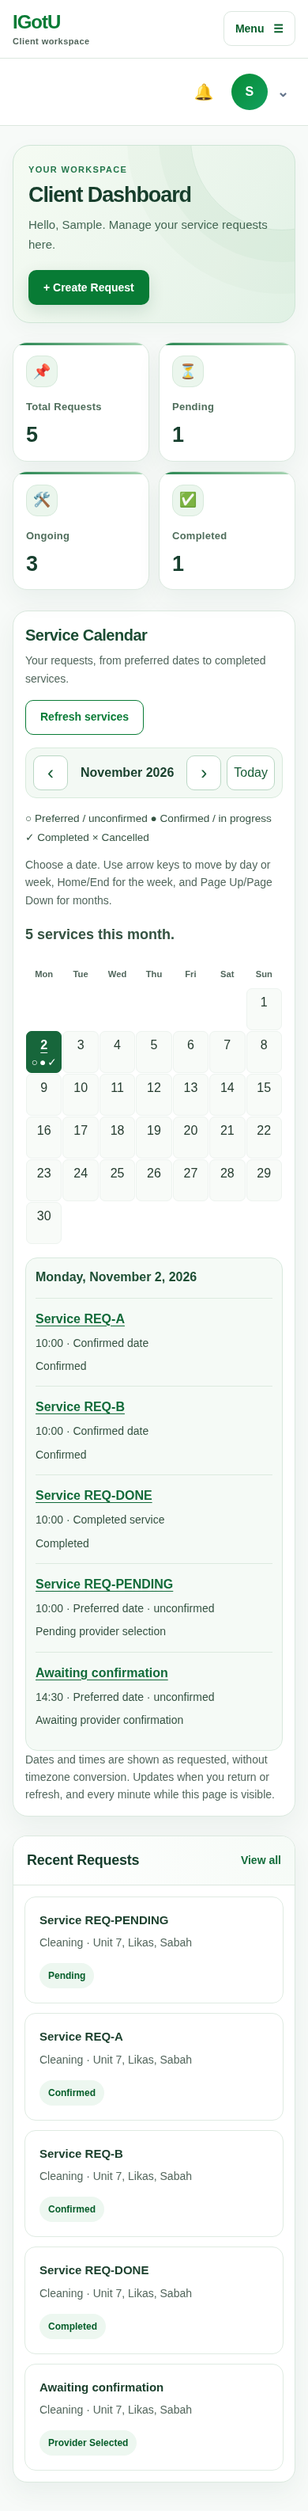
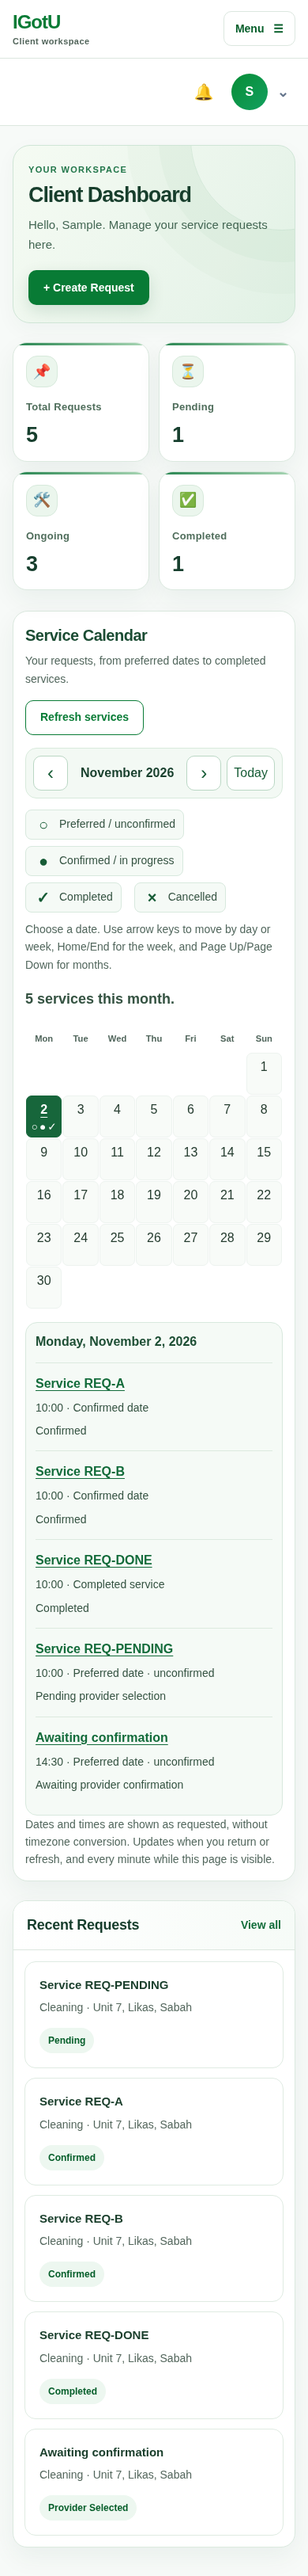
Clarify Provider area labels and calendar status legend

diff --git a/igotu_v2/js/service-calendar.js b/igotu_v2/js/service-calendar.js
@@ -84,7 +84,16 @@ export function mountServiceCalendar(root, { role, userId, loadRequests }) {
   previous.setAttribute("aria-label", "Previous month");
   next.setAttribute("aria-label", "Next month");
   toolbar.append(previous, monthLabel, next, todayButton);
-  const legend = element("p", "calendar-legend", "○ Preferred / unconfirmed   ● Confirmed / in progress   ✓ Completed   × Cancelled");
+  const legend = element("ul", "calendar-legend");
+  legend.setAttribute("role", "list");
+  legend.setAttribute("aria-label", "Service status legend");
+  for (const [symbol, label] of [["○", "Preferred / unconfirmed"], ["●", "Confirmed / in progress"], ["✓", "Completed"], ["×", "Cancelled"]]) {
+    const item = element("li", "calendar-legend-item");
+    const marker = element("span", "calendar-legend-marker", symbol);
+    marker.setAttribute("aria-hidden", "true");
+    item.append(marker, element("span", "", label));
+    legend.append(item);
+  }
   const instructions = element("p", "calendar-help", "Choose a date. Use arrow keys to move by day or week, Home/End for the week, and Page Up/Page Down for months.");
   instructions.id = "serviceCalendarHelp";
   const status = element("p", "calendar-status");

diff --git a/igotu_v2/css/service-calendar.css b/igotu_v2/css/service-calendar.css
@@ -10,7 +10,9 @@
 .calendar-today { padding: 8px 16px; }
 .service-calendar button:focus-visible, .calendar-service-title:focus-visible { outline: 3px solid #155b37; outline-offset: 3px; }
 .service-calendar button:disabled { cursor: wait; opacity: .6; }
-.calendar-legend { color: #355342; font-size: .85rem; line-height: 1.8; }
+.calendar-legend { display: flex; flex-wrap: wrap; gap: 8px 16px; padding: 0; list-style: none; color: #355342; font-size: .875rem; line-height: 1.5; }
+.calendar-legend-item { display: flex; align-items: center; gap: 8px; min-width: 0; padding: 6px 10px; border: 1px solid #d8e9de; border-radius: 8px; background: #f5faf6; }
+.calendar-legend-marker { display: inline-flex; align-items: center; justify-content: center; flex: 0 0 24px; width: 24px; height: 24px; font-size: 1.25rem; font-weight: 700; color: #175c36; }
 .calendar-status { min-height: 1.5em; color: #355342; line-height: 1.6; }
 .calendar-content { display: grid; grid-template-columns: minmax(0, 1.2fr) minmax(0, 1fr); gap: 24px; align-items: start; }
 .calendar-content[hidden] { display: none; }

diff --git a/igotu_v2/js/provider.js b/igotu_v2/js/provider.js
@@ -87,7 +87,7 @@ async function loadStats(userId) {
         <a class="list-item" href="incoming-requests.html?request_id=${escapeHtml(encodeURIComponent(request.request_id))}">
             <div>
                 <strong>${escapeHtml(request.title)}</strong>
-                <span>${escapeHtml(request.category)} · Approximate Area: ${escapeHtml(request.approximate_area || "Area available after confirmation")}</span>
+                <span>${escapeHtml(request.category)} · Approximate Area: ${escapeHtml(String(request.approximate_area || "").replace(/^(?:\s*approximate\s+area\s*:\s*)+/i, "").trim() || "Area available after confirmation")}</span>
             </div>
             <em class="status-pill">${escapeHtml(request.status.replace("_", " "))}</em>
         </a>

diff --git a/docs/service-calendar/README.md b/docs/service-calendar/README.md
@@ -23,7 +23,7 @@ npm --prefix tests run test:calendar
 
 The standalone test starts a loopback-only server, replaces supabaseClient.js with the existing stateful fixture transport and aborts external requests. No live project keys, production data or real accounts are needed. Chromium defaults to /usr/bin/chromium; CHROMIUM_PATH may select an installed local executable.
 
-28 browser scenarios plus date/ownership model checks cover scoped Client/Provider loading, status/decline transitions, read-only links, stale-detail removal/error recovery, empty/loading states, duplicate refresh suppression, automatic refresh, keyboard/month/year/Today navigation, backend-compatibility and mandatory identity denial, escaped/encoded untrusted fields, and layout/axe accessibility at 320/390/1440 pixels across Honolulu, Kuala Lumpur and Kiritimati. Results and screenshots are written to ignored work/service-calendar. The main audit runner also includes this suite.
+29 browser scenarios plus date/ownership model checks cover scoped Client/Provider loading, status/decline transitions, read-only links, stale-detail removal/error recovery, empty/loading states, duplicate refresh suppression, automatic refresh, keyboard/month/year/Today navigation, backend-compatibility and mandatory identity denial, escaped/encoded untrusted fields, and layout/axe accessibility at 320/390/1440 pixels across Honolulu, Kuala Lumpur and Kiritimati. The suite also checks single-label approximate-area rendering without private-location fallback and the accessible four-item status legend. Results and screenshots are written to ignored work/service-calendar. The main audit runner also includes this suite.
 
 Screenshots contain synthetic data only: [mobile](calendar-390.png), [desktop](calendar-1440.png).
 
